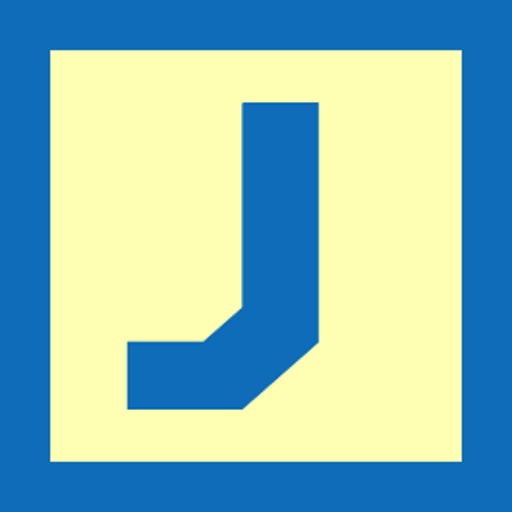
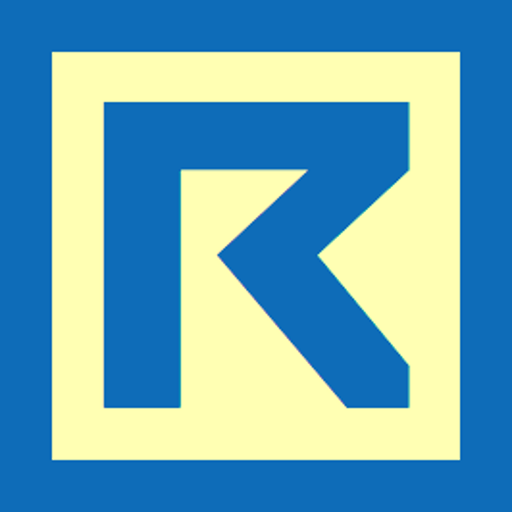
New 16-marker alphabet cozmo mat

Changed region(s): [[0.1875, 0.1875, 0.8125, 0.8125], [0.0938, 0.0938, 0.9062, 0.9062]]

diff --git a/basestation/src/blockWorld.cpp b/basestation/src/blockWorld.cpp
@@ -77,32 +77,55 @@ namespace Anki
         // TODO: We need 9 different markers on the mat!
         
         mat->AddMarker(Vision::MARKER_A,
-                       Pose3d(1.570796, {-1.000000,0.000000,0.000000}, {-250.000000,250.000000,0.000000}),
-                       75.000000);
-        mat->AddMarker(Vision::MARKER_B,
-                       Pose3d(1.570796, {-1.000000,0.000000,0.000000}, {0.000000,250.000000,0.000000}),
-                       75.000000);
-        mat->AddMarker(Vision::MARKER_C,
-                       Pose3d(1.570796, {-1.000000,0.000000,0.000000}, {250.000000,250.000000,0.000000}),
-                       75.000000);
-        mat->AddMarker(Vision::MARKER_D,
-                       Pose3d(1.570796, {-1.000000,0.000000,0.000000}, {-250.000000,0.000000,0.000000}),
-                       75.000000);
+                       Pose3d(1.570796, {-1.000000,0.000000,0.000000}, {-200.000000,-200.000000,0.000000}),
+                       65.000000);
         mat->AddMarker(Vision::MARKER_E,
-                       Pose3d(1.570796, {-1.000000,0.000000,0.000000}, {0.000000,0.000000,0.000000}),
-                       75.000000);
-        mat->AddMarker(Vision::MARKER_F,
-                       Pose3d(1.570796, {-1.000000,0.000000,0.000000}, {250.000000,0.000000,0.000000}),
-                       75.000000);
-        mat->AddMarker(Vision::MARKER_G,
-                       Pose3d(1.570796, {-1.000000,0.000000,0.000000}, {-250.000000,-250.000000,0.000000}),
-                       75.000000);
-        mat->AddMarker(Vision::MARKER_J,
-                       Pose3d(1.570796, {-1.000000,0.000000,0.000000}, {0.000000,-250.000000,0.000000}),
-                       75.000000);
+                       Pose3d(1.570796, {-1.000000,0.000000,0.000000}, {-66.666667,-200.000000,0.000000}),
+                       65.000000);
         mat->AddMarker(Vision::MARKER_K,
-                       Pose3d(1.570796, {-1.000000,0.000000,0.000000}, {250.000000,-250.000000,0.000000}),
-                       75.000000);
+                       Pose3d(1.570796, {-1.000000,0.000000,0.000000}, {66.666667,-200.000000,0.000000}),
+                       65.000000);
+        mat->AddMarker(Vision::MARKER_P,
+                       Pose3d(1.570796, {-1.000000,0.000000,0.000000}, {200.000000,-200.000000,0.000000}),
+                       65.000000);
+        mat->AddMarker(Vision::MARKER_B,
+                       Pose3d(1.570796, {-1.000000,0.000000,0.000000}, {-200.000000,-66.666667,0.000000}),
+                       65.000000);
+        mat->AddMarker(Vision::MARKER_F,
+                       Pose3d(1.570796, {-1.000000,0.000000,0.000000}, {-66.666667,-66.666667,0.000000}),
+                       65.000000);
+        mat->AddMarker(Vision::MARKER_L,
+                       Pose3d(1.570796, {-1.000000,0.000000,0.000000}, {66.666667,-66.666667,0.000000}),
+                       65.000000);
+        mat->AddMarker(Vision::MARKER_R,
+                       Pose3d(1.570796, {-1.000000,0.000000,0.000000}, {200.000000,-66.666667,0.000000}),
+                       65.000000);
+        mat->AddMarker(Vision::MARKER_C,
+                       Pose3d(1.570796, {-1.000000,0.000000,0.000000}, {-200.000000,66.666667,0.000000}),
+                       65.000000);
+        mat->AddMarker(Vision::MARKER_G,
+                       Pose3d(1.570796, {-1.000000,0.000000,0.000000}, {-66.666667,66.666667,0.000000}),
+                       65.000000);
+        mat->AddMarker(Vision::MARKER_M,
+                       Pose3d(1.570796, {-1.000000,0.000000,0.000000}, {66.666667,66.666667,0.000000}),
+                       65.000000);
+        mat->AddMarker(Vision::MARKER_S,
+                       Pose3d(1.570796, {-1.000000,0.000000,0.000000}, {200.000000,66.666667,0.000000}),
+                       65.000000);
+        mat->AddMarker(Vision::MARKER_D,
+                       Pose3d(1.570796, {-1.000000,0.000000,0.000000}, {-200.000000,200.000000,0.000000}),
+                       65.000000);
+        mat->AddMarker(Vision::MARKER_J,
+                       Pose3d(1.570796, {-1.000000,0.000000,0.000000}, {-66.666667,200.000000,0.000000}),
+                       65.000000);
+        mat->AddMarker(Vision::MARKER_N,
+                       Pose3d(1.570796, {-1.000000,0.000000,0.000000}, {66.666667,200.000000,0.000000}),
+                       65.000000);
+        mat->AddMarker(Vision::MARKER_T,
+                       Pose3d(1.570796, {-1.000000,0.000000,0.000000}, {200.000000,200.000000,0.000000}),
+                       65.000000);
+
+
 
         
         

diff --git a/matlab/createWebotsMat.m b/matlab/createWebotsMat.m
@@ -1,6 +1,8 @@
 function createWebotsMat(images, numCorners, xgrid, ygrid, angles, sizes, names, varargin)
 
+
 ForegroundColor = [ 14 108 184]/255; % Anki light blue
+FiducialColor = zeros(1,3);
 %BackgroundColor = [107 107 107]/255; % Anki light gray
 BackgroundColor = [1 1 .7]; % Light yellow
 ProtoDir = fullfile(fileparts(mfilename('fullpath')), '../robot/simulator/protos');
@@ -64,19 +66,19 @@ codeString = cell(1,numel(images));
 
 for i = 1:numel(images)
         
-%     markerImg = VisionMarker.DrawFiducial( ...
-%         'Image', imrotate(images{i}, -angles(i)), ...
-%         'NumCorners', numCorners(i), ...
-%         'AddPadding', false, ...
-%         'ForegroundColor', ForegroundColor, ...
-%         'BackgroundColor', BackgroundColor);
-markerImg = VisionMarkerTrained.AddFiducial(images{i}, 'PadOutside', false, 'OutputSize', 512);
+    %     markerImg = VisionMarker.DrawFiducial( ...
+    %         'Image', imrotate(images{i}, -angles(i)), ...
+    %         'NumCorners', numCorners(i), ...
+    %         'AddPadding', false, ...
+    %         'ForegroundColor', ForegroundColor, ...
+    %         'BackgroundColor', BackgroundColor);
+    markerImg = VisionMarkerTrained.AddFiducial(images{i}, 'PadOutside', false, 'OutputSize', 512, 'FiducialColor', FiducialColor);
     
-if size(markerImg,3)==1
-    markerImg = markerImg(:,:,ones(1,3));
-end
-
-markerImg = (1-markerImg).*FG + markerImg.*BG;
+    if size(markerImg,3)==1
+        markerImg = markerImg(:,:,ones(1,3));
+    end
+    
+    markerImg = (1-markerImg).*FG + markerImg.*BG;
 
     % Need this initial rotation b/c canonical VisionMarker orientation in
     % 3D is vertical, i.e. in the X-Z plane, for historical reasons.
@@ -85,15 +87,16 @@ markerImg = (1-markerImg).*FG + markerImg.*BG;
     pose = Pose(rodrigues(angles(i)*pi/180*[0 0 1])*R_to_flat, ...
         [xgrid(i) ygrid(i) -CozmoVisionProcessor.WHEEL_RADIUS]');
     
-axis = pose.axis;
-angle = pose.angle;
-T = pose.T;
-T(3)= 0;
-codeString{i} = sprintf(['mat->AddMarker(Vision::MARKER_%s,\n', ...
-    'Pose3d(%f, {%f,%f,%f}, {%f,%f,%f}),\n%f);\n'], ...
-    names{i}, angle, ...
-    axis(1), axis(2), axis(3), T(1), T(2), T(3), ...
-    sizes(i));
+    axis = pose.axis;
+    angle = pose.angle;
+    T = pose.T;
+    T(3)= 0;
+    [~,nameNoExt,~] = fileparts(names{i});
+    codeString{i} = sprintf(['mat->AddMarker(Vision::MARKER_%s,\n', ...
+        'Pose3d(%f, {%f,%f,%f}, {%f,%f,%f}),\n%f);\n'], ...
+        nameNoExt, angle, ...
+        axis(1), axis(2), axis(3), T(1), T(2), T(3), ...
+        sizes(i));
         
     filename = sprintf('ankiMat%d.png', i);
     imwrite(imresize(markerImg, [512 512]), fullfile(WorldDir, filename));

diff --git a/matlab/makeMatVisionMarkers.m b/matlab/makeMatVisionMarkers.m
@@ -11,27 +11,31 @@
 %         
 %         anki = imread('~/Box Sync/Cozmo SE/VisionMarkers/ankiLogo.png');
      
-markerSize_mm = 75;
+markerSize_mm = 65;
+
 matMarkerPath = '~/Box Sync/Cozmo SE/VisionMarkers/letters';
-fnames = {'A', 'B', 'C', 'D', 'E', 'F', 'G', 'J', 'K'};
-%fnames = getfnames('../robot/simulator/protos/textures/letters', '*.png', 'useFullPath', true);
-numImages = length(fnames);
-assert(numImages == 9, 'Expecting to find 9 images.');
-images = cell(3,3);
-for i = 1:length(fnames)
-    images{i} = imread(fullfile(matMarkerPath, [fnames{i} '.png']));
+fnames = {'A.png', 'B.png', 'C.png', 'D.png';
+    'E.png', 'F.png', 'G.png', 'J.png';
+    'K.png', 'L.png', 'M.png', 'N.png';
+    'P.png', 'R.png', 'S.png', 'T.png'};
+
+%matMarkerPath = '~/Box Sync/Cozmo SE/VisionMarkers/mat'; %WithFiducials/unpadded';
+%fnames = getfnames(matMarkerPath, '*.png');
+
+numImages = numel(fnames);
+assert(numImages == 16, 'Expecting to find 16 images.');
+images = cell(4,4);
+for i = 1:numImages
+    images{i} = imread(fullfile(matMarkerPath, fnames{i}));
 end
 
-
-xgrid  = [-250 0 250;
-    -250 0 250;
-    -250 0 250];
-
-ygrid  = [ 250  250  250;
-    0    0    0;
-    -250 -250 -250];
+[xgrid,ygrid] = meshgrid(linspace(-200,200,4));
+angles = zeros(4,4);
+numCorners = zeros(4,4); % TODO: remove
         
-createWebotsMat(images, numCorners', xgrid', ygrid', angles', markerSize_mm, fnames);
+createWebotsMat(images, numCorners', xgrid', ygrid', angles', ...
+    markerSize_mm, fnames); %,'FiducialColor', [27 130 193]/255, ...
+    %'ForegroundColor', zeros(1,3), 'BackgroundColor', ones(1,3));
 
 %markerLibrary.Save();
 
